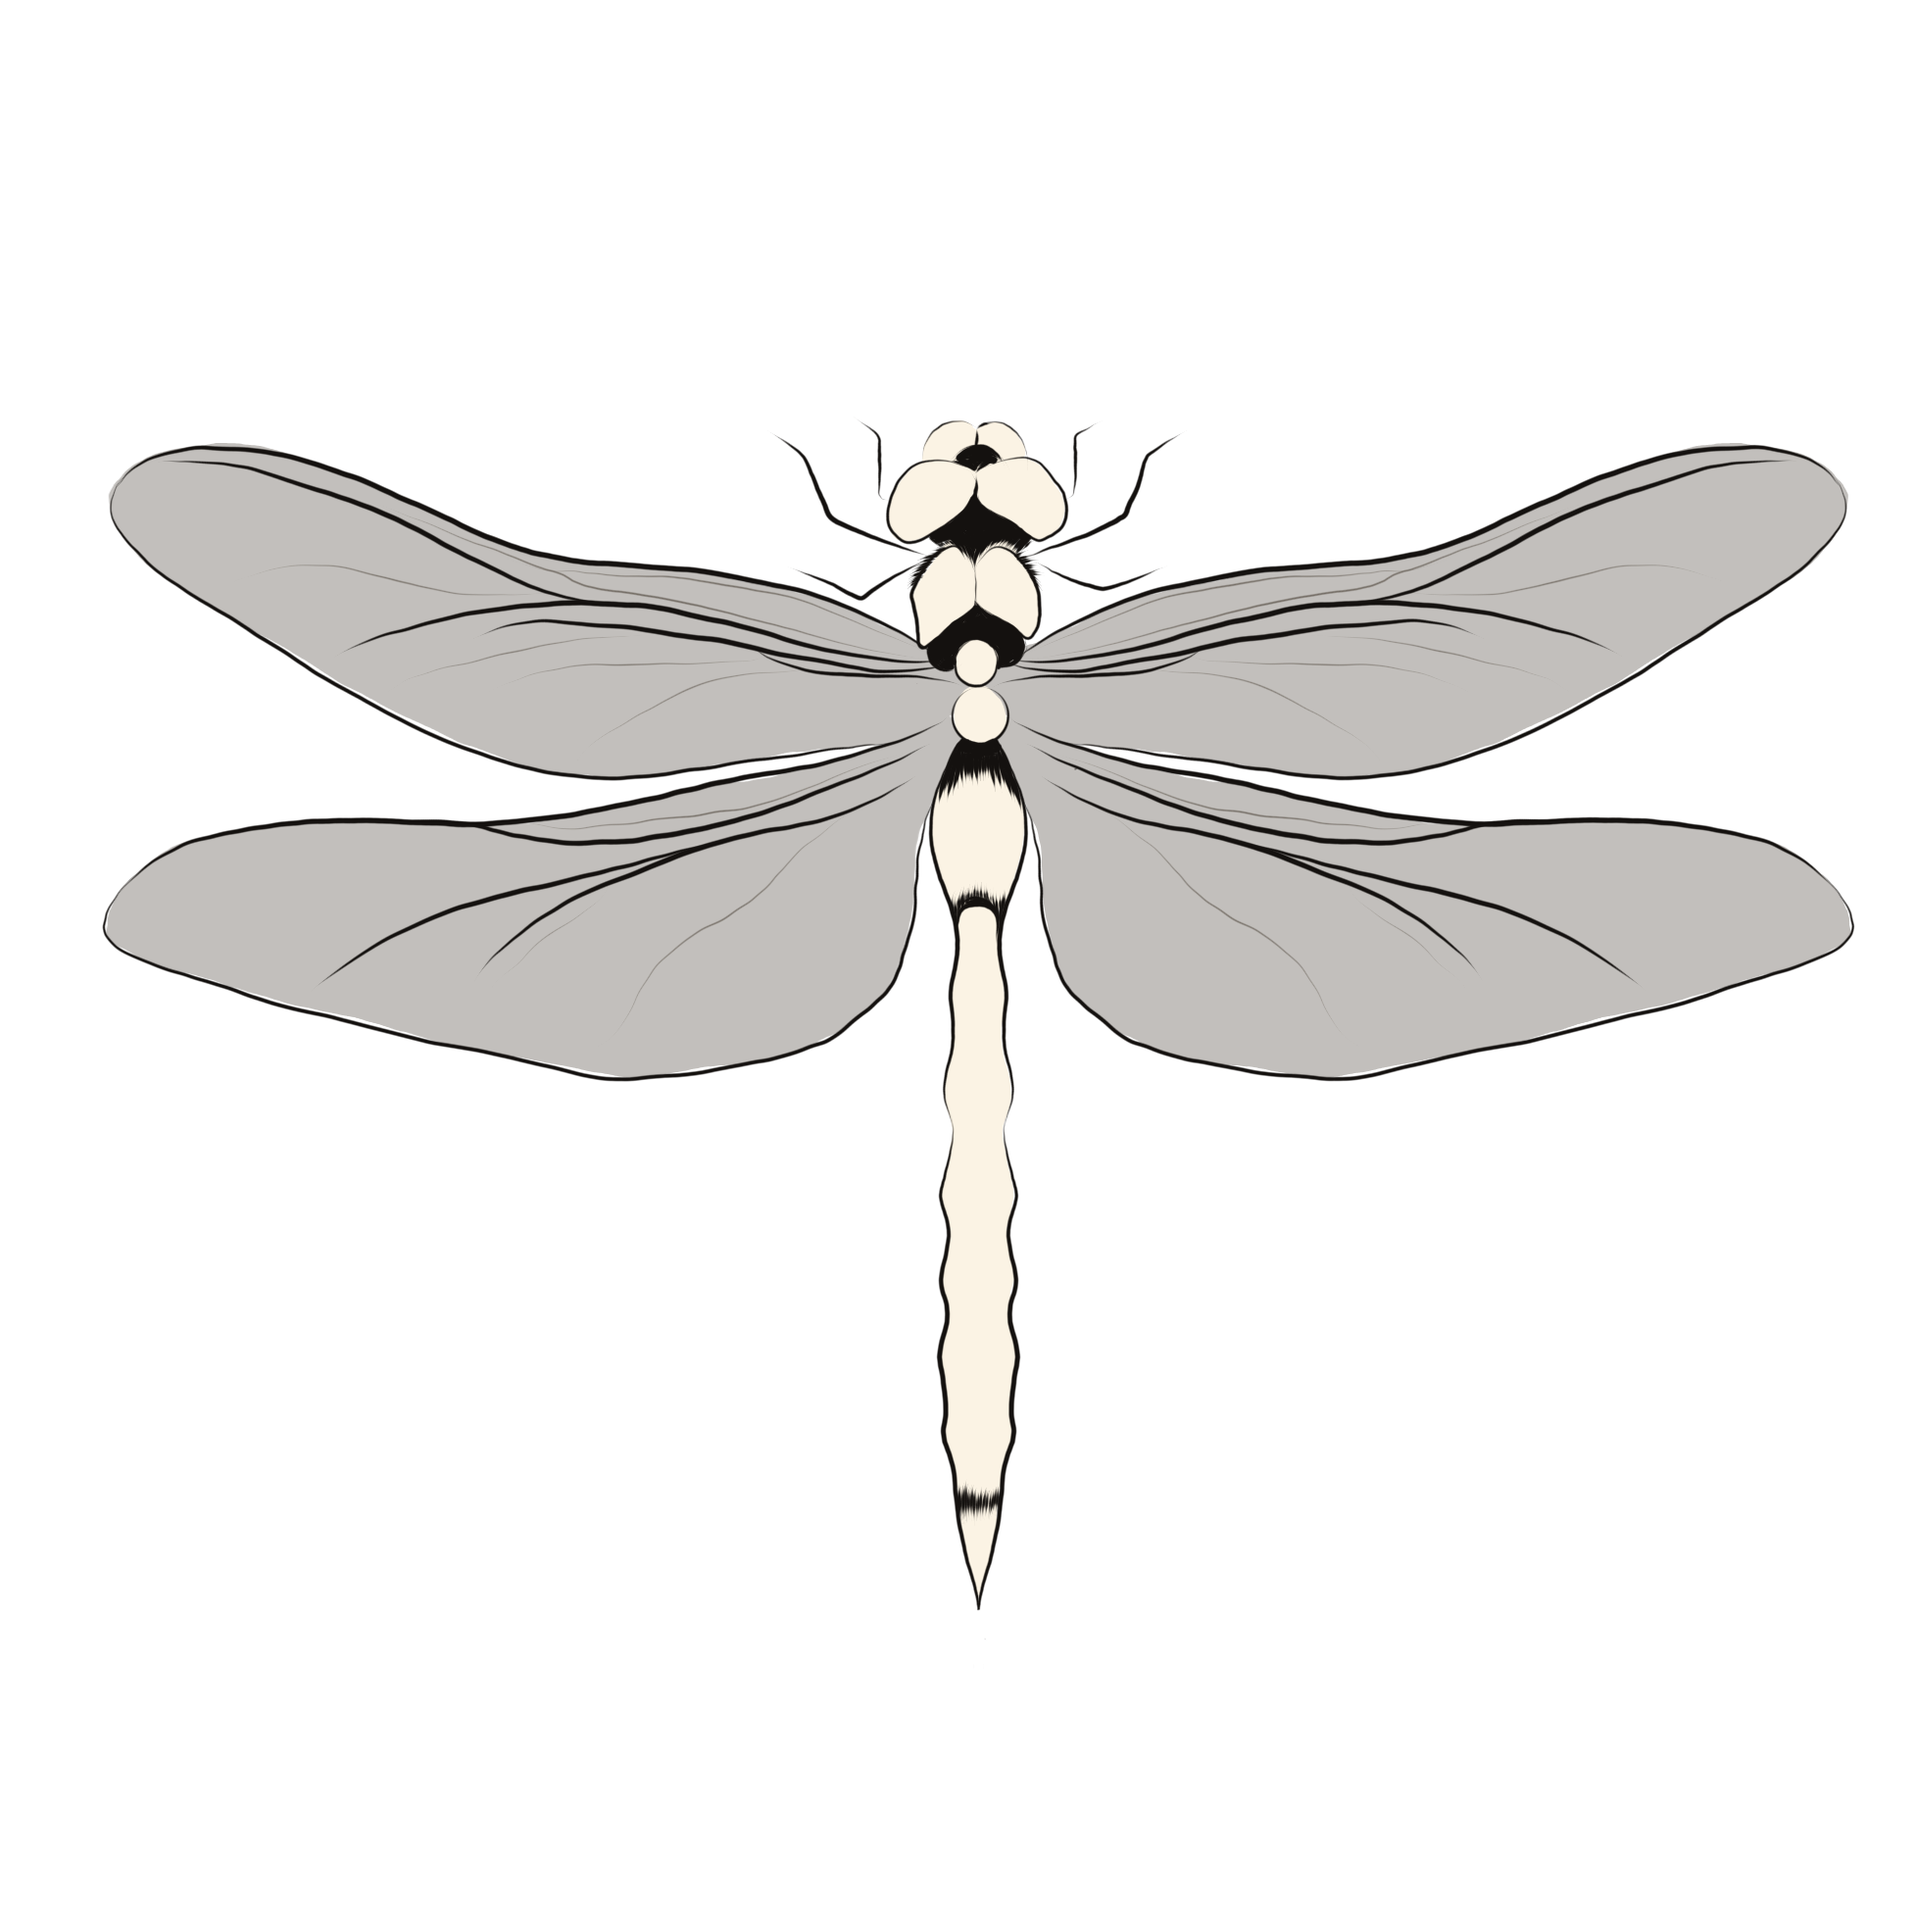
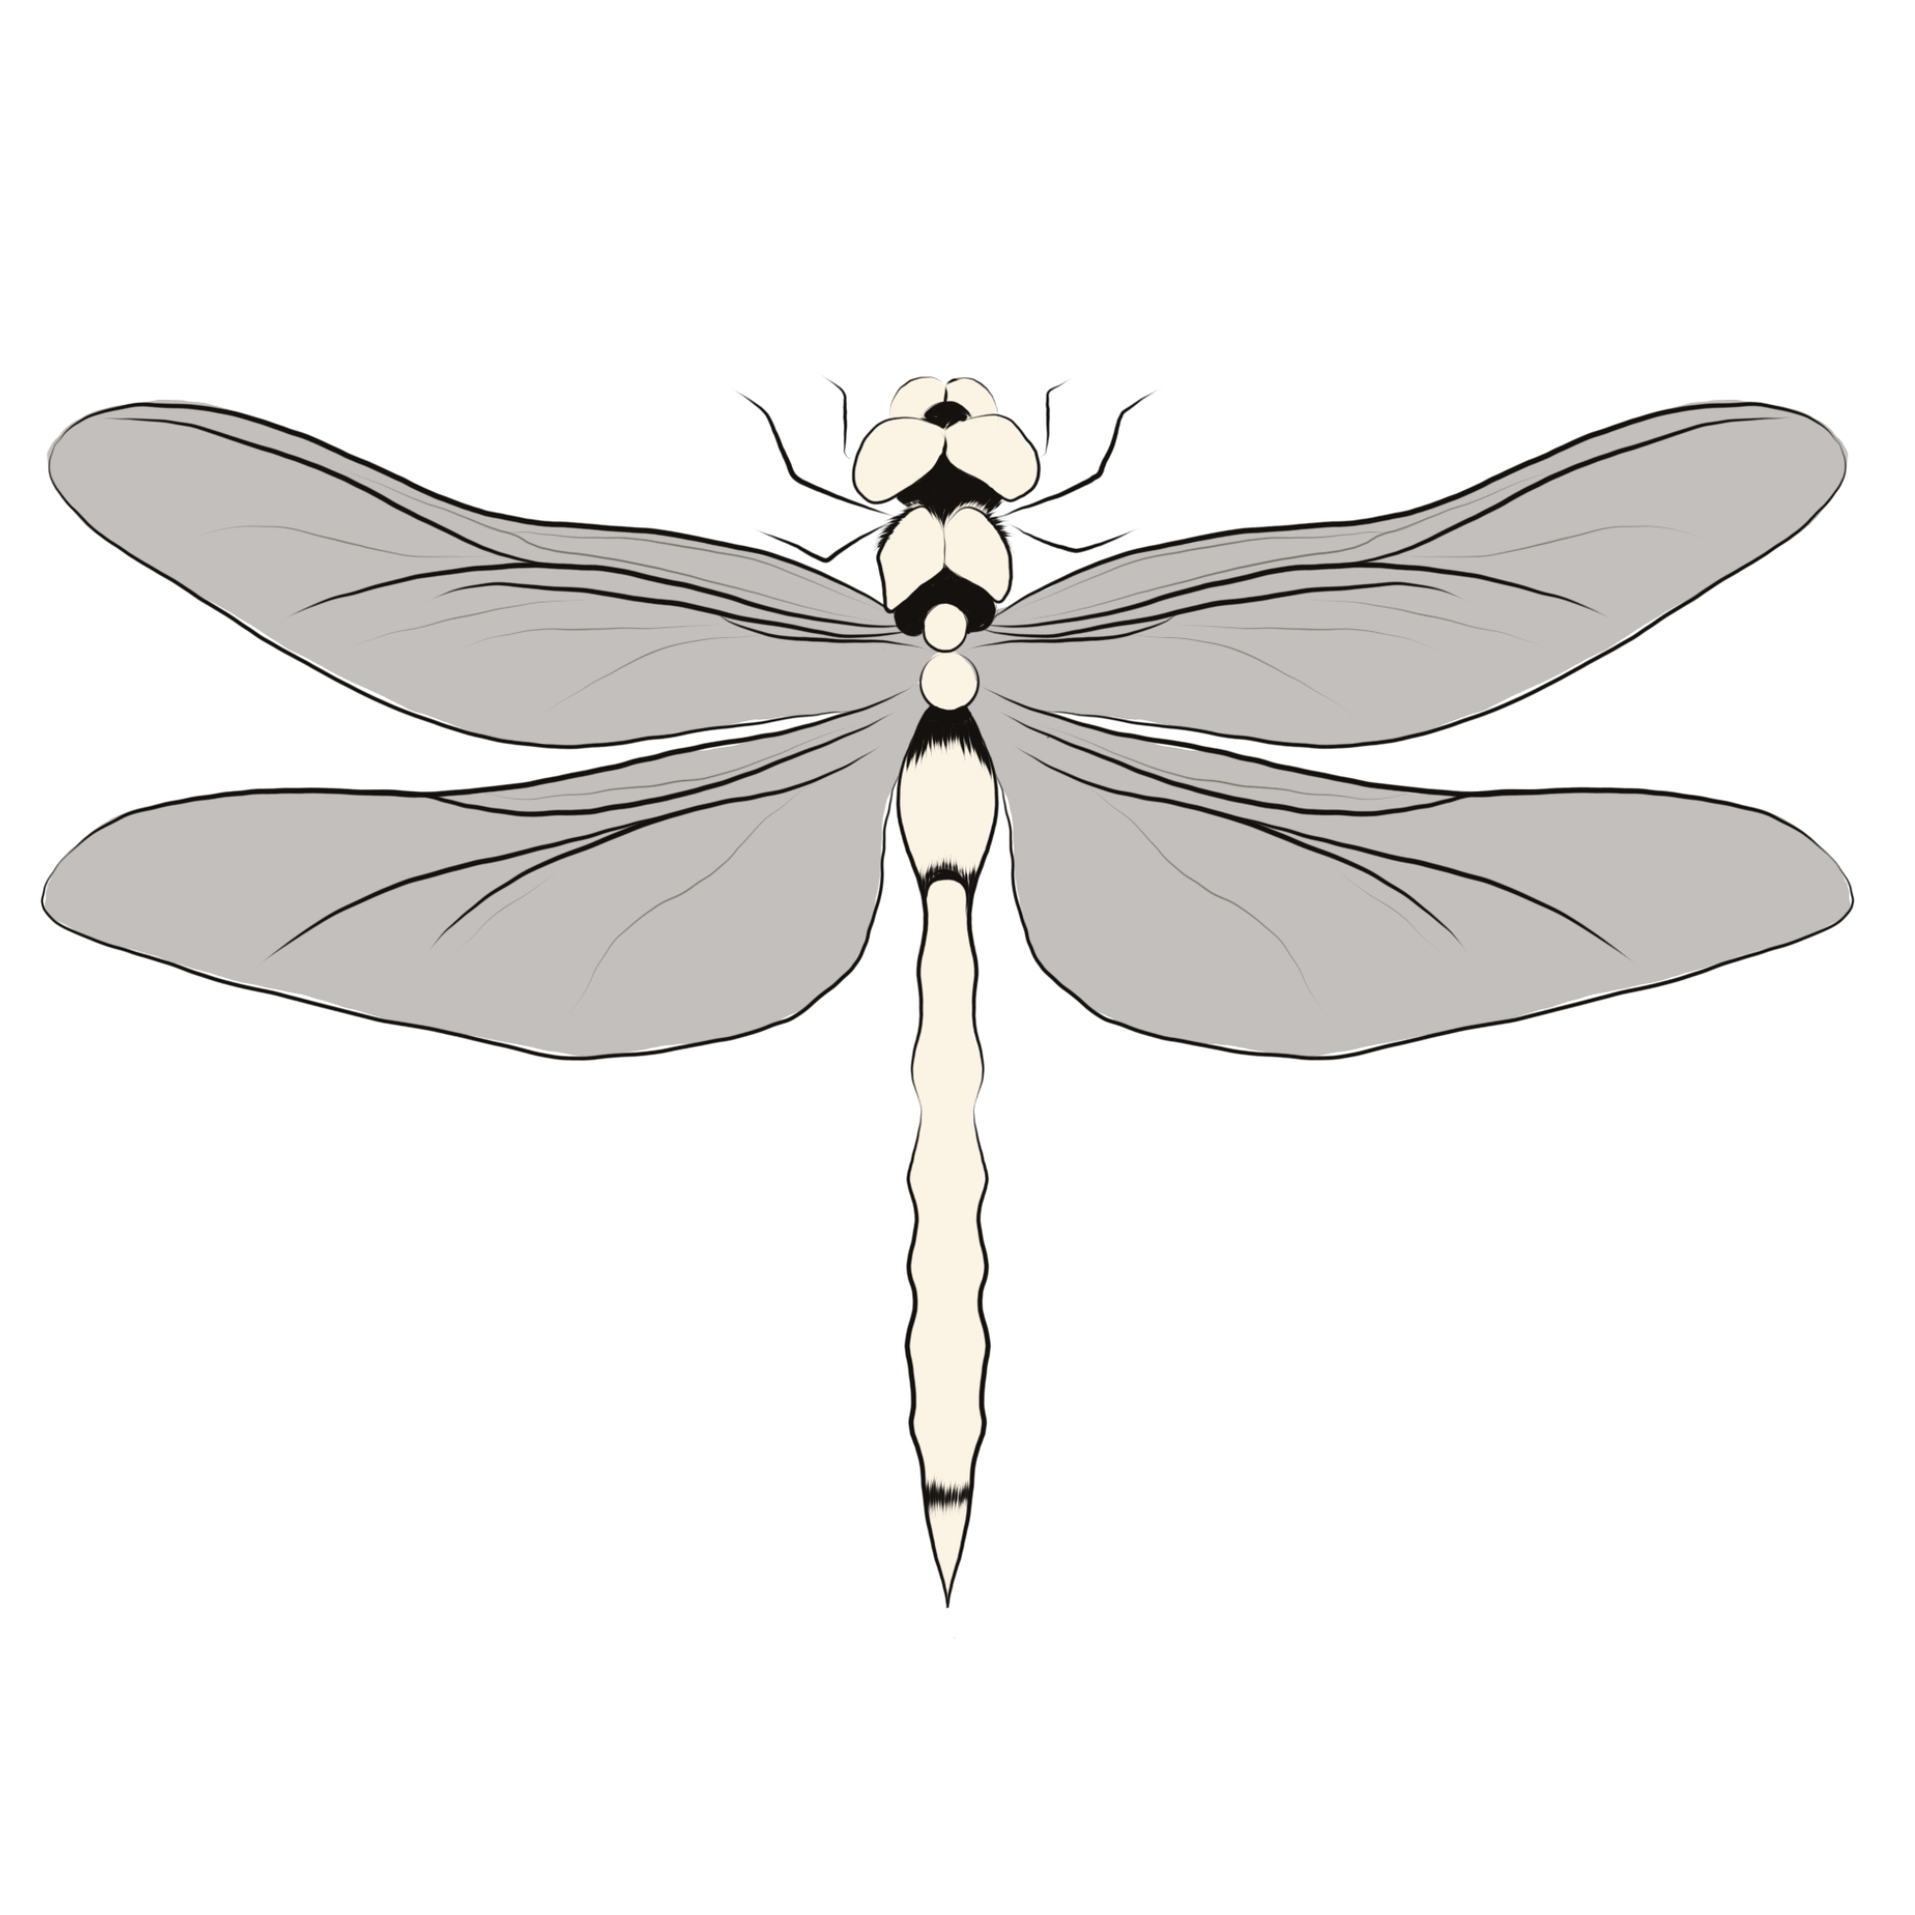
illustrazioni

diff --git a/style.css b/style.css
@@ -33,19 +33,19 @@
 .bg-ash{background:var(--ash);}
 
 /* tipografia — classi di utilità, usale su qualsiasi elemento */
-.h1{font-family:'Syne',sans-serif; font-weight:800; font-size:240px; line-height:210px; margin:0;}
-.h2{font-family:'Syne',sans-serif; font-weight:800; font-size:80px; line-height:1; margin:0;}
-.h3{font-family:'Libre Baskerville',serif; font-weight:700; font-style:italic; font-size:36px; margin:0;}
-.h4{font-family:'Libre Baskerville',serif; font-weight:400; font-style:italic; font-size:16px; margin:0;}
-.paragraph{font-family:'Libre Baskerville',serif; font-weight:400; font-size:12px; line-height:1.5; margin:0;}
+h1, .h1{font-family:'Syne',sans-serif; font-weight:800; font-size:220px; line-height:160px; margin:0;}
+h2, .h2{font-family:'Syne',sans-serif; font-weight:800; font-size:100px; line-height:80px; margin:0;}
+h3, .h3{font-family:'Libre Baskerville',serif; font-weight:700; font-style:italic; font-size:36px; margin:0;}
+h4, .h4{font-family:'Libre Baskerville',serif; font-weight:400; font-style:italic; font-size:16px; margin:0;}
+p, .paragraph{font-family:'Libre Baskerville',serif; font-weight:400; font-size:12px; line-height:1.5; margin:0;}
 .caption{font-family:'Syne',sans-serif; font-weight:400; font-size:10px; letter-spacing:.08em; text-transform:uppercase; margin:0;}
 .menu{font-family:'Syne',sans-serif; font-weight:400; font-size:24px; margin:0;}
 
 @media (max-width:720px){
-  .h1{font-size:100px; line-height:90px;}
-  .h2{font-size:44px;}
-  .h3{font-size:26px;}
-  .menu{font-size:19px;}
+ h1, .h1{font-size:100px; line-height:90px;}
+ h2, .h2{font-size:44px;}
+ h3, .h3{font-size:26px;}
+ .menu{font-size:19px;}
 }
 
 /* ============================================================
@@ -102,12 +102,21 @@ button{font:inherit;}
    ============================================================ */
 
 .hero{height:100vh; position:relative; display:flex; align-items:center;
-  overflow:hidden; padding-left:7vw;}
-.hero-type{position:relative; z-index:2;}
+  overflow:hidden; padding-left:7vw; margin-top: 8vh}
+.hero-type{position:relative; z-index:2; margin-bottom: 16vh}
 .ht-imago{color:var(--ash); margin:0 0 2px;}
 .ht-big{color:var(--ash); margin:0;}
-.hero-wasp{position:absolute; right:-6vw; top:50%; width:min(58vw,660px); height:auto;
-  transform:translateY(-52%) translateX(-45%) rotate(30deg); z-index:1; opacity:.92;}
+.hero-wasp{
+  position: absolute;
+  right: -24vw;
+  top: 80%;
+  width: min(58vw, 660px);
+  height: auto;
+  scale: 1.5;
+  transform: translateY(-52%) translateX(-45%) rotate(30deg);
+  z-index: 1;
+  opacity: .92;
+}
 .scroll-cue{position:absolute; bottom:34px; left:0; right:0; text-align:center;
   color:var(--ash-soft); z-index:2;}
 .scroll-cue .arrow{display:block; margin-top:6px; animation:bob 2s ease-in-out infinite;}
@@ -146,7 +155,7 @@ button{font:inherit;}
   animation-delay: calc(var(--i) * .09s), calc(.6s + var(--i) * .35s);
   box-shadow:0 8px 22px rgba(0,0,0,.35); transition: transform .25s ease, box-shadow .25s ease;}
 .node svg{width:20px; height:20px; position:relative;}
-.node img{width:20px; height:20px; object-fit:contain; position:relative;}
+.node img{width:80px; height:80px; object-fit:contain; position:relative;}
 .node:hover, .node:focus-visible{transform:translate(-50%,-50%) scale(1.18);
   box-shadow:0 10px 30px rgba(0,0,0,.5), 0 0 0 10px rgba(251,243,228,.06);}
 .node:focus-visible{outline:2px solid var(--light); outline-offset:4px;}
@@ -205,7 +214,7 @@ button{font:inherit;}
 .cover-number{position:absolute; top:64px; left:10vw;}
 .cover-body{position:absolute; top:50%; left:10vw; right:10vw; transform:translateY(-50%);
   display:flex; align-items:center; gap:5vw; flex-wrap:wrap;}
-.cover-illustration{width:min(24vw,280px); flex:0 0 auto;}
+.cover-illustration{width:min(36vw,360px); flex:0 0 auto;}
 .cover-illustration svg, .cover-illustration img{width:100%; height:auto; display:block;}
 .cover-text{flex:1 1 320px; min-width:280px;}
 .cover-insetto{text-transform:uppercase; letter-spacing:.1em; margin-bottom:8px;}
@@ -236,6 +245,18 @@ button{font:inherit;}
   .cover-illustration{width:40vw;}
   .section-nav{padding:0 6vw 70px;}
 }
+
+/* ============================================================
+   CARDS
+   ============================================================ */
+
+.op-card{
+  display: flex; flex-direction: column; gap: .4rem;
+  background: none; border: 0; padding: 0;
+  color: inherit; text-align: left; cursor: pointer;
+}
+.op-cover{ aspect-ratio: 4/5; overflow: hidden; }
+.op-cover img{ width: 100%; height: 100%; object-fit: cover; display: block; }
 
 /* ============================================================
    CORPUS

diff --git a/index.html b/index.html
@@ -25,10 +25,10 @@
 <main>
   <section class="hero" id="hero">
     <div class="hero-type">
-      <p class="ht-imago menu">imago</p>
-      <p class="ht-big h1">FU</p>
-      <p class="ht-big h1">CI</p>
-      <p class="ht-big h1">NÆ</p>
+      <h2 class="ht-imago" style="font-size: 60px">imago</h2>
+      <h1 class="ht-big">FU</h1>
+      <h1 class="ht-big">CI</h1>
+      <h1 class="ht-big">NÆ</h1>
     </div>
 
     <img class="hero-wasp" src="assets/vespa.png" alt="Vespa">
@@ -71,8 +71,8 @@
 
     <div class="corpus-block">
       <div class="corpus-eyebrow caption">Exordium</div>
-      <p class="corpus-manifesto h3">Vengo dalla carta — margini, griglie, corpi di testo — prima che dai pixel.
-        Imago Fucinæ è il posto dove imparo la lingua nuova, senza disimparare quella vecchia.</p>
+      <h3 class="corpus-manifesto">Vengo dalla carta — margini, griglie, corpi di testo — prima che dai pixel.
+        Imago Fucinæ è il posto dove imparo la lingua nuova, senza disimparare quella vecchia.</h3>
     </div>
 
     <div class="corpus-block">
@@ -86,13 +86,13 @@
 
     <div class="corpus-block">
       <div class="corpus-eyebrow caption">Lexicon</div>
-      <h3 class="ineffabulae-title h2">ineffabulæ</h3>
+      <h2 class="ineffabulae-title">ineffabulæ</h2>
       <p class="ineffabulae-desc paragraph">Un atlante digitale di parole intraducibili, costruito parola per parola insieme a chi lo legge.</p>
       <a class="ineffabulae-link caption" href="#">Visita ineffabulæ →</a>
     </div>
 
     <div class="corpus-block corpus-chiusura">
-      <p class="chiusura-text h3">Imago — la forma compiuta dell'insetto.<br>Il resto è ancora in corso.</p>
+      <h3 class="chiusura-text">Imago — la forma compiuta dell'insetto.<br>Il resto è ancora in corso.</h3>
       <div class="corpus-footer">
         <a class="caption" href="#">[email]</a>
         <a class="caption" href="#">[instagram]</a>
@@ -113,7 +113,7 @@
         <div class="cover-illustration" id="ovIllustration"></div>
         <div class="cover-text">
           <div class="cover-insetto h4" id="ovInsetto"></div>
-          <h2 class="cover-gesto h2" id="ovGesto2"></h2>
+          <h2 class="cover-gesto" id="ovGesto2"></h2>
           <div class="cover-sezione h4" id="ovSezioneName"></div>
           <div class="cover-desc paragraph" id="ovDesc"></div>
         </div>

diff --git a/script.js b/script.js
@@ -172,11 +172,19 @@ function init(SECTIONS){
     const ovContent = document.getElementById('ovContent');
     ovContent.innerHTML = '';
     (s.opere || []).forEach(op=>{
-      const card = document.createElement('div');
-      card.className = 'op-card h4';
-      card.textContent = op.title;
+      const card = document.createElement('button');
+      card.className = 'op-card';
+      card.innerHTML = `
+    ${op.cover ? `<div class="op-cover"><img src="${op.cover}" alt="${op.title}" loading="lazy"></div>` : ''}
+    <span class="op-title h4">${op.title}</span>
+    ${op.anno || op.tecnica ? `<span class="op-meta caption">${[op.anno, op.tecnica].filter(Boolean).join(' · ')}</span>` : ''}`;
+      if(op.slug) card.addEventListener('click', ()=>openOpera(s, op));
       ovContent.appendChild(card);
     });
+    function openOpera(s, op){
+      // pagina opera: da disegnare
+      console.log('apri opera', s.gesto, op.slug, op.immagini);
+    }
 
     const idx = SECTIONS.findIndex(sec => sec.id === s.id);
     const prev = SECTIONS[(idx - 1 + SECTIONS.length) % SECTIONS.length];
